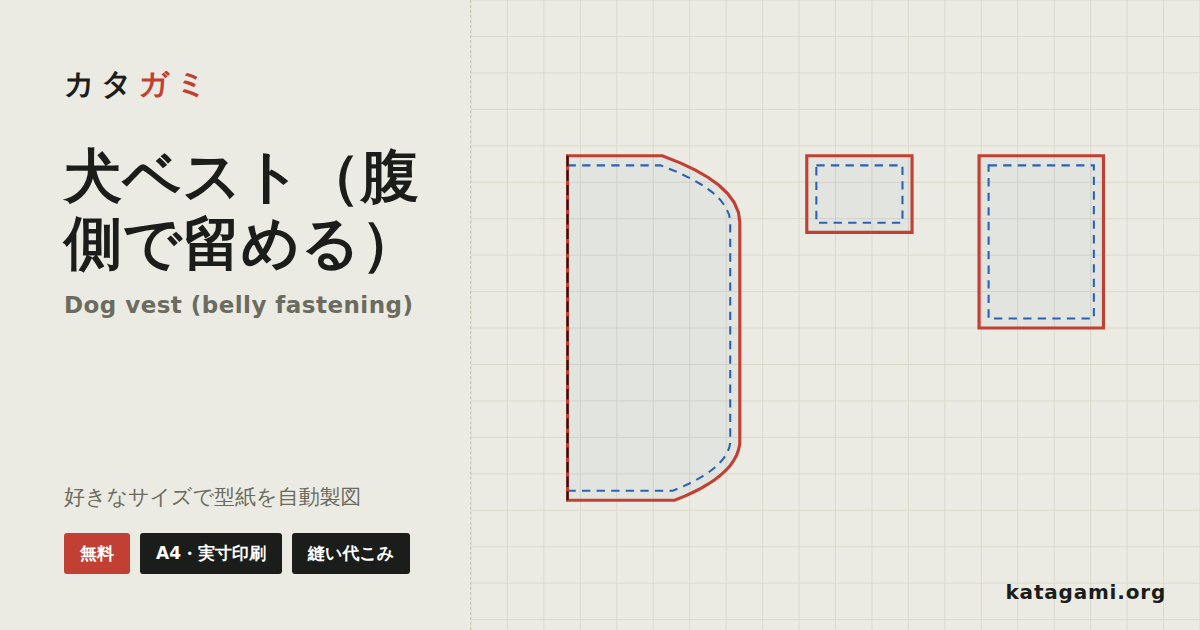
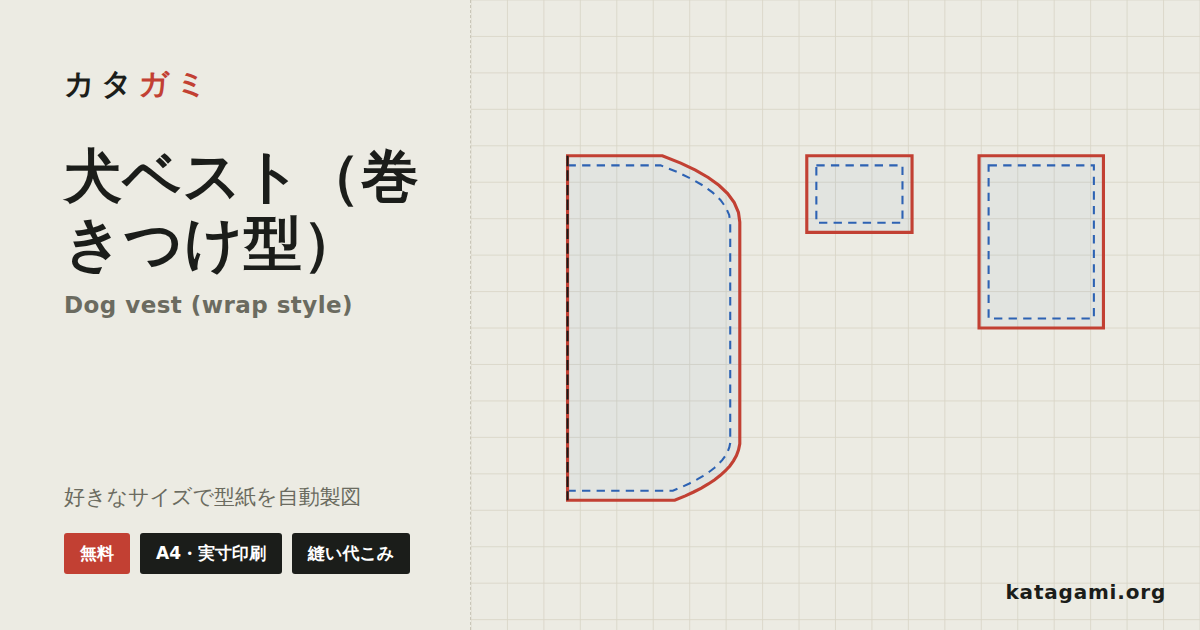
犬ベストの名前を「腹側で留める」→「巻きつけ型」に (#82)
ご指摘のとおり、タイトルとして変でした。3つずれています。

1. 兄弟の型紙は形で命名している（タンクトップ／袖付き）のに、
   ここだけ留め方が入っていた
2. 胸当ても腹当ても留めるようになったので、「腹側で」が事実と半分ずれる
3. 留め方は面ファスナーとスナップの両方選べるのに、名前が片方に寄って見える

形で言い表す「犬ベスト（巻きつけ型）」にしました。英語は
"Dog vest (wrap style)"。既存の「ペットベスト」（筒型でかぶせる）との
違いも名前で分かります。

型紙名・i18n・一覧・作り方ガイド（和英）・OGP画像まで通しで変更。
本文中の「お腹側で留める」は動作の説明なのでそのままにしています。

audit.js／check-mobile.js／check-print.js／check-a11y.js すべて0件

Claude-Session: https://claude.ai/code/session_01NUnd4Kcs6SKpshVzpFfeP3

Changed region(s): [[0.0308, 0.3317, 0.3392, 0.5127], [0.2775, 0.2413, 0.37, 0.3317]]

diff --git a/howto-dogvest.html b/howto-dogvest.html
@@ -14,12 +14,12 @@
   gtag("js",new Date());
   gtag("config","G-3HFK3VE3Q8");
 </script>
-<title>犬ベスト（腹側で留める）の作り方｜カタガミ</title>
-<meta name="description" content="腹側で留める犬ベストの作り方。頭からかぶせず前足も通さないので、着せるのを嫌がる子でも一瞬。面ファスナーかスナップで留めます。カタガミで型紙を実寸印刷できます。">
-<meta name="keywords" content="犬ベスト,犬服,マジックテープ,面ファスナー,スナップ,着せやすい,作り方,型紙">
+<title>犬ベスト（巻きつけ型）の作り方｜カタガミ</title>
+<meta name="description" content="巻きつけ型の犬ベストの作り方。胸当てと腹当てをお腹側で留めるだけなので、頭からかぶせず前足も持ち上げずに着せられます。カタガミで型紙を実寸印刷できます。">
+<meta name="keywords" content="犬ベスト,犬服,巻きつけ,マジックテープ,面ファスナー,スナップ,着せやすい,作り方,型紙">
 <meta property="og:type" content="article">
-<meta property="og:title" content="犬ベスト（腹側で留める）の作り方｜カタガミ">
-<meta property="og:description" content="腹側で留める犬ベストの作り方。頭からかぶせず前足も通さないので、着せるのを嫌がる子でも一瞬。面ファスナーかスナップで留めます。カタガミで型紙を実寸印刷できます。">
+<meta property="og:title" content="犬ベスト（巻きつけ型）の作り方｜カタガミ">
+<meta property="og:description" content="巻きつけ型の犬ベストの作り方。胸当てと腹当てをお腹側で留めるだけなので、頭からかぶせず前足も持ち上げずに着せられます。カタガミで型紙を実寸印刷できます。">
 <meta property="og:locale" content="ja_JP">
 <link rel="stylesheet" href="howto.css">
 <link rel="canonical" href="https://katagami.org/howto-dogvest.html">
@@ -31,15 +31,15 @@
 <meta property="og:image:width" content="1200">
 <meta property="og:image:height" content="630">
 <meta name="twitter:card" content="summary_large_image">
-<meta name="twitter:title" content="犬ベスト（腹側で留める）の作り方｜カタガミ">
-<meta name="twitter:description" content="腹側で留める犬ベストの作り方。頭からかぶせず前足も通さないので、着せるのを嫌がる子でも一瞬。面ファスナーかスナップで留めます。カタガミで型紙を実寸印刷できます。">
+<meta name="twitter:title" content="犬ベスト（巻きつけ型）の作り方｜カタガミ">
+<meta name="twitter:description" content="巻きつけ型の犬ベストの作り方。胸当てと腹当てをお腹側で留めるだけなので、頭からかぶせず前足も持ち上げずに着せられます。カタガミで型紙を実寸印刷できます。">
 <meta name="twitter:image" content="https://katagami.org/ogp/dogvest.png">
 <script type="application/ld+json">
 {
   "@context": "https://schema.org",
   "@type": "Article",
-  "headline": "犬ベスト（腹側で留める）の作り方",
-  "description": "腹側で留める犬ベストの作り方。頭からかぶせず前足も通さないので、着せるのを嫌がる子でも一瞬。面ファスナーかスナップで留めます。カタガミで型紙を実寸印刷できます。",
+  "headline": "犬ベスト（巻きつけ型）の作り方",
+  "description": "巻きつけ型の犬ベストの作り方。胸当てと腹当てをお腹側で留めるだけなので、頭からかぶせず前足も持ち上げずに着せられます。カタガミで型紙を実寸印刷できます。",
   "inLanguage": "ja",
   "image": "https://katagami.org/ogp/dogvest.png",
   "author": {
@@ -64,8 +64,8 @@
 {
   "@context": "https://schema.org",
   "@type": "HowTo",
-  "name": "犬ベスト（腹側で留める）の作り方",
-  "description": "腹側で留める犬ベストの作り方。頭からかぶせず前足も通さないので、着せるのを嫌がる子でも一瞬。面ファスナーかスナップで留めます。カタガミで型紙を実寸印刷できます。",
+  "name": "犬ベスト（巻きつけ型）の作り方",
+  "description": "巻きつけ型の犬ベストの作り方。胸当てと腹当てをお腹側で留めるだけなので、頭からかぶせず前足も持ち上げずに着せられます。カタガミで型紙を実寸印刷できます。",
   "inLanguage": "ja",
   "image": "https://katagami.org/ogp/dogvest.png",
   "supply": [
@@ -304,7 +304,7 @@
     {
       "@type": "ListItem",
       "position": 3,
-      "name": "犬ベスト（腹側で留める）の作り方",
+      "name": "犬ベスト（巻きつけ型）の作り方",
       "item": "https://katagami.org/howto-dogvest.html"
     }
   ]
@@ -320,8 +320,8 @@
 
 <article class="article">
   <div class="article-head">
-    <nav class="crumb" aria-label="パンくずリスト"><a href="index.html">カタガミ</a><span class="sep" aria-hidden="true">›</span><a href="howto.html">作り方ガイド</a><span class="sep" aria-hidden="true">›</span><span class="cur">犬ベスト（腹側で留める）の作り方</span></nav>
-    <h1>犬ベスト（腹側で留める）の作り方</h1>
+    <nav class="crumb" aria-label="パンくずリスト"><a href="index.html">カタガミ</a><span class="sep" aria-hidden="true">›</span><a href="howto.html">作り方ガイド</a><span class="sep" aria-hidden="true">›</span><span class="cur">犬ベスト（巻きつけ型）の作り方</span></nav>
+    <h1>犬ベスト（巻きつけ型）の作り方</h1>
     <p class="lead">
       胸当て・前足ぐり・腹当ての順に並んだベスト。<strong>前足の前を胸当てが、後ろを腹当てがふさぐので、そのあいだが前足ぐりになります。</strong>どちらもお腹側で留めるだけなので、頭からかぶせたり前足を持ち上げたりせずに着せられます。留めは面ファスナーかスナップ、どちらでも作れます。
     </p>
@@ -375,7 +375,7 @@
     <ol class="steps">
       <li>
         <strong>ツールを開く</strong><br>
-        <a href="tool.html">型紙ツール</a>を開き、上部タブの「<b>ペット</b>」→「<b>犬ベスト（腹側で留める）</b>」を選択します。
+        <a href="tool.html">型紙ツール</a>を開き、上部タブの「<b>ペット</b>」→「<b>犬ベスト（巻きつけ型）</b>」を選択します。
       </li>
       <li>
         <strong>サイズを入力する</strong><br>

diff --git a/en/howto-dogvest.html b/en/howto-dogvest.html
@@ -14,12 +14,12 @@
   gtag("js",new Date());
   gtag("config","G-3HFK3VE3Q8");
 </script>
-<title>Dog vest (belly fastening) — Free Sewing Pattern | Katagami</title>
-<meta name="description" content="Free printable sewing pattern for a dog vest (belly fastening), in your size. How to sew a dog vest that fastens under the belly.">
-<meta name="keywords" content="dog vest,dog coat,hook and loop,velcro,snaps,easy on,how to sew,sewing pattern,free sewing pattern,PDF sewing pattern,printable pattern,print at home">
+<title>Dog vest (wrap style) — Free Sewing Pattern | Katagami</title>
+<meta name="description" content="Free printable sewing pattern for a dog vest (wrap style), in your size. How to sew a wrap-style dog vest.">
+<meta name="keywords" content="dog vest,wrap vest,dog coat,hook and loop,velcro,snaps,easy on,how to sew,sewing pattern,free sewing pattern,PDF sewing pattern,printable pattern,print at home">
 <meta property="og:type" content="article">
-<meta property="og:title" content="Dog vest (belly fastening) — Free Sewing Pattern & How to Sew | Katagami">
-<meta property="og:description" content="Free printable sewing pattern for a dog vest (belly fastening), in your size. How to sew a dog vest that fastens under the belly.">
+<meta property="og:title" content="Dog vest (wrap style) — Free Sewing Pattern & How to Sew | Katagami">
+<meta property="og:description" content="Free printable sewing pattern for a dog vest (wrap style), in your size. How to sew a wrap-style dog vest.">
 <meta property="og:locale" content="en_US">
 <meta property="og:locale:alternate" content="ja_JP">
 <link rel="stylesheet" href="../howto.css">
@@ -32,15 +32,15 @@
 <meta property="og:image:width" content="1200">
 <meta property="og:image:height" content="630">
 <meta name="twitter:card" content="summary_large_image">
-<meta name="twitter:title" content="Dog vest (belly fastening) — Free Sewing Pattern & How to Sew | Katagami">
-<meta name="twitter:description" content="Free printable sewing pattern for a dog vest (belly fastening), in your size. How to sew a dog vest that fastens under the belly.">
+<meta name="twitter:title" content="Dog vest (wrap style) — Free Sewing Pattern & How to Sew | Katagami">
+<meta name="twitter:description" content="Free printable sewing pattern for a dog vest (wrap style), in your size. How to sew a wrap-style dog vest.">
 <meta name="twitter:image" content="https://katagami.org/ogp/dogvest.png">
 <script type="application/ld+json">
 {
   "@context": "https://schema.org",
   "@type": "Article",
-  "headline": "How to make a dog vest (belly fastening)",
-  "description": "How to sew a dog vest that fastens under the belly. Nothing goes over the head and no legs are threaded, so it goes on in seconds.",
+  "headline": "How to make a dog vest (wrap style)",
+  "description": "How to sew a wrap-style dog vest. The chest and belly panels simply fasten underneath, so nothing goes over the head and no leg has to be lifted through.",
   "inLanguage": "en",
   "image": "https://katagami.org/ogp/dogvest.png",
   "author": { "@type": "Organization", "name": "Katagami", "url": "https://katagami.org/" },
@@ -54,8 +54,8 @@
 {
   "@context": "https://schema.org",
   "@type": "HowTo",
-  "name": "How to make a dog vest (belly fastening)",
-  "description": "How to sew a dog vest that fastens under the belly. Nothing goes over the head and no legs are threaded, so it goes on in seconds.",
+  "name": "How to make a dog vest (wrap style)",
+  "description": "How to sew a wrap-style dog vest. The chest and belly panels simply fasten underneath, so nothing goes over the head and no leg has to be lifted through.",
   "inLanguage": "en",
   "image": "https://katagami.org/ogp/dogvest.png",
   "supply": [
@@ -294,7 +294,7 @@
     {
       "@type": "ListItem",
       "position": 3,
-      "name": "How to make a dog vest (belly fastening)",
+      "name": "How to make a dog vest (wrap style)",
       "item": "https://katagami.org/en/howto-dogvest.html"
     }
   ]
@@ -310,8 +310,8 @@
 
 <article class="article">
   <div class="article-head">
-    <nav class="crumb" aria-label="Breadcrumb"><a href="index.html">Katagami</a><span class="sep" aria-hidden="true">›</span><a href="howto.html">Sewing guides</a><span class="sep" aria-hidden="true">›</span><span class="cur">Dog vest (belly fastening)</span></nav>
-    <h1>How to make a dog vest (belly fastening)</h1>
+    <nav class="crumb" aria-label="Breadcrumb"><a href="index.html">Katagami</a><span class="sep" aria-hidden="true">›</span><a href="howto.html">Sewing guides</a><span class="sep" aria-hidden="true">›</span><span class="cur">Dog vest (wrap style)</span></nav>
+    <h1>How to make a dog vest (wrap style)</h1>
     <p class="lead">
       A vest built as chest panel, armhole, belly panel. <strong>The chest panel closes in front of the front leg and the belly panel behind it, and the space between them is the armhole.</strong> Both simply fasten under the body, so nothing goes over the head and no leg has to be lifted through. Hook-and-loop or snaps.
     </p>
@@ -353,7 +353,7 @@
       With the Katagami <a href="tool.html">pattern tool</a>, you just enter the finished size and it drafts a seam-allowance-included pattern, tiled to print at actual size on Letter or A4.
     </p>
     <ol class="steps">
-      <li><strong>Open the tool</strong><br>Open the <a href="tool.html">pattern tool</a> and choose “<b>Pets</b>” → “<b>Dog vest (belly fastening)</b>” from the tabs at the top.</li>
+      <li><strong>Open the tool</strong><br>Open the <a href="tool.html">pattern tool</a> and choose “<b>Pets</b>” → “<b>Dog vest (wrap style)</b>” from the tabs at the top.</li>
       <li><strong>Enter the size</strong><br>Enter the chest, neck, back length, chest panel length, armhole size, belly panel length, overlap and ease. Presets cover toy, small, medium and large dogs. Tick the snap option if you are using snaps — the overlap reduces to suit.</li>
       <li><strong>Set the seam allowance</strong><br>Use the slider at the bottom (beginners: <b>1.0–1.5&nbsp;cm / about 3/8–5/8&nbsp;in</b>).</li>
       <li><strong>Print</strong><br>Press “<b>Print (actual size)</b>”, then in the print dialog set <b>Scale = 100%</b> and turn <b>“Fit to page” OFF</b>. Check the 50&nbsp;mm calibration box on the first guide sheet with a ruler.</li>

diff --git a/scripts/ja-howto-data.js b/scripts/ja-howto-data.js
@@ -8637,10 +8637,10 @@ neckpillow:{
     related:["picnicmat", "chairpad", "slipper"],
   },
   dogvest: {
-    title:"犬ベスト（腹側で留める）", tab:"pet", toolName:"犬ベスト（腹側で留める）",
+    title:"犬ベスト（巻きつけ型）", tab:"pet", toolName:"犬ベスト（巻きつけ型）",
     sizeStep:"「胴回り」「首回り」「背丈」「胸当ての長さ」「前足ぐりの大きさ」「腹当ての長さ」「重なり」「ゆとり」を入力します。超小型犬・小型犬・中型犬・大型犬のプリセットがあります。スナップで留める場合はチェックを入れてください（重なりが少なめになります）。",
-    desc:"腹側で留める犬ベストの作り方。頭からかぶせず前足も通さないので、着せるのを嫌がる子でも一瞬。面ファスナーかスナップで留めます。カタガミで型紙を実寸印刷できます。",
-    keywords:"犬ベスト,犬服,マジックテープ,面ファスナー,スナップ,着せやすい,作り方,型紙",
+    desc:"巻きつけ型の犬ベストの作り方。胸当てと腹当てをお腹側で留めるだけなので、頭からかぶせず前足も持ち上げずに着せられます。カタガミで型紙を実寸印刷できます。",
+    keywords:"犬ベスト,犬服,巻きつけ,マジックテープ,面ファスナー,スナップ,着せやすい,作り方,型紙",
     lead:"胸当て・前足ぐり・腹当ての順に並んだベスト。<strong>前足の前を胸当てが、後ろを腹当てがふさぐので、そのあいだが前足ぐりになります。</strong>どちらもお腹側で留めるだけなので、頭からかぶせたり前足を持ち上げたりせずに着せられます。留めは面ファスナーかスナップ、どちらでも作れます。",
     matNote:"中型犬（柴犬サイズ）1着分の目安",
     buy:"面ファスナー 手芸", buyLabel:"面ファスナー・綿",

diff --git a/i18n.js b/i18n.js
@@ -45,7 +45,7 @@
     small:"Accessories", bag:"Bags", pet:"Pets", home:"Home" };
 
   var NAME={
-    /* 2026-08 犬ベスト */ "dogvest":"Dog vest (belly fastening)",
+    /* 2026-08 犬ベスト */ "dogvest":"Dog vest (wrap style)",
     /* 2026-08 小物・バッグ・ペット・ホームの追加 */ "maskcover":"Mask cover", "casquette":"Casquette", "bandanacap":"Bandana cap", "hairribbon":"Hair ribbon", "hairclip":"Ribbon barrette", "haramaki":"Belly warmer", "brooch":"Fabric brooch", "pocketsquare":"Pocket square", "fabricbelt":"Fabric belt", "breadbag":"Bread bag", "potmat":"Trivet", "teatowel":"Tea towel", "coinpurse":"Coin purse", "bifoldwallet":"Bifold wallet", "gamaguchiwallet":"Gamaguchi wallet", "travelpouch":"Hanging travel pouch", "keyboardcover":"Keyboard cover", "phoneshoulder":"Phone shoulder bag", "tabletstand":"Tablet stand", "petbowtie":"Pet bow tie", "petscarf":"Pet scarf", "petseatcover":"Pet car seat cover", "petblanket":"Pet blanket", "pettent":"Pet tent", "tapestry":"Wall hanging", "shelfcurtain":"Shelf curtain", "doormat":"Doormat",
     /* 2026-08 子供服・大人服の追加 */ "kidsleggings":"Kids' leggings", "kidstunic":"Kids' tunic", "kidsponcho":"Kids' poncho", "kidsjacket":"Kids' jacket", "kidsraincoat":"Kids' raincoat", "kidsyukata":"Kids' yukata", "kidsapron":"Kids' apron", "jumpsuit":"Jumpsuit", "adultjinbei":"Jinbei top (adult)", "cafeapron":"Cafe apron",
     /* 2026-08 ベビーの追加 */ "fabricball":"Fabric ball", "clothbook":"Cloth book", "taghanky":"Taggie square", "otedama":"Otedama beanbag", "babypillow":"Doughnut baby pillow", "napmat":"Nap mat", "babyfuton":"Baby duvet cover", "diapercover":"Diaper cover", "nursingpillow":"Nursing pillow cover", "gauzehanky":"Gauze square", "babyleggings":"Baby leggings", "suckpad":"Carrier suck pads",

diff --git a/scripts/en-howto-data.js b/scripts/en-howto-data.js
@@ -11285,10 +11285,10 @@ module.exports = {
     related:["picnicmat", "chairpad", "slipper"],
   },
   dogvest: {
-    title:"Dog vest (belly fastening)", tab:"pet", toolName:"Dog vest (belly fastening)",
+    title:"Dog vest (wrap style)", tab:"pet", toolName:"Dog vest (wrap style)",
     sizeStep:"Enter the chest, neck, back length, chest panel length, armhole size, belly panel length, overlap and ease. Presets cover toy, small, medium and large dogs. Tick the snap option if you are using snaps — the overlap reduces to suit.",
-    desc:"How to sew a dog vest that fastens under the belly. Nothing goes over the head and no legs are threaded, so it goes on in seconds.",
-    keywords:"dog vest,dog coat,hook and loop,velcro,snaps,easy on,how to sew,sewing pattern",
+    desc:"How to sew a wrap-style dog vest. The chest and belly panels simply fasten underneath, so nothing goes over the head and no leg has to be lifted through.",
+    keywords:"dog vest,wrap vest,dog coat,hook and loop,velcro,snaps,easy on,how to sew,sewing pattern",
     lead:"A vest built as chest panel, armhole, belly panel. <strong>The chest panel closes in front of the front leg and the belly panel behind it, and the space between them is the armhole.</strong> Both simply fasten under the body, so nothing goes over the head and no leg has to be lifted through. Hook-and-loop or snaps.",
     matNote:"one vest, medium dog",
     materials:[

diff --git a/index.html b/index.html
@@ -447,7 +447,7 @@
           <li><a href="tool.html?p=dogsleeved">犬服（袖付き）</a></li>
           <li><a href="tool.html?p=catfuku">猫服（タンクトップ）</a></li>
           <li><a href="tool.html?p=petvest">ペットベスト</a></li>
-          <li><a href="tool.html?p=dogvest">犬ベスト（腹側で留める）</a></li>
+          <li><a href="tool.html?p=dogvest">犬ベスト（巻きつけ型）</a></li>
           <li><a href="tool.html?p=petcape">ペットレインコート</a></li>
           <li class="pat-sub" role="presentation">首まわり</li>
           <li><a href="tool.html?p=petbandana">ペットバンダナ</a></li>
@@ -779,7 +779,7 @@
           <li><a href="howto-petsnood.html">ペットスヌード</a></li>
           <li><a href="howto-catfuku.html">猫服（タンクトップ）</a></li>
           <li><a href="howto-petvest.html">ペットベスト</a></li>
-          <li><a href="howto-dogvest.html">犬ベスト（腹側で留める）</a></li>
+          <li><a href="howto-dogvest.html">犬ベスト（巻きつけ型）</a></li>
           <li><a href="howto-petbed.html">ペットベッド</a></li>
           <li><a href="howto-petcape.html">ペットレインコート</a></li>
           <li><a href="howto-petcollar.html">首輪カバー</a></li>

diff --git a/patterns.js b/patterns.js
@@ -10134,11 +10134,11 @@ PATTERNS.fabricbelt={
   }
 };
 
-/* ---- 犬ベスト（腹側で留める） ---- */
+/* ---- 犬ベスト（巻きつけ型） ---- */
 PATTERNS.dogvest={
   mode:"pet",
-  name:"犬ベスト（腹側で留める）",
-  note:"胸当て・前足ぐり・腹当ての順に並んだベスト。前足の前を胸当てが、後ろを腹当てがふさぐので、そのあいだが前足ぐりになります。どちらもお腹側で留めるだけなので、頭からかぶせたり前足を持ち上げたりせずに着せられます。留めは面ファスナーかスナップ。",
+  name:"犬ベスト（巻きつけ型）",
+  note:"胸当て・前足ぐり・腹当ての順に並んだ、体に巻きつけて留めるベスト。前足の前を胸当てが、後ろを腹当てがふさぐので、そのあいだが前足ぐりになります。どちらもお腹側で留めるだけなので、頭からかぶせたり前足を持ち上げたりせずに着せられます。留めは面ファスナーかスナップ。",
   params:[
     {key:"chest",   label:"胴回り（前足のうしろ）",unit:"cm",min:24,max:90, step:1,  val:46},
     {key:"neck",    label:"首回り",              unit:"cm",min:16,max:60, step:1,  val:30},

diff --git a/app.js b/app.js
@@ -568,7 +568,7 @@ const HOWTO={
   petsnood:{url:"howto-petsnood.html", label:"📄 ペットスヌードの作り方を見る"},
   catfuku:{url:"howto-catfuku.html", label:"📄 猫服（タンクトップ）の作り方を見る"},
   petvest:{url:"howto-petvest.html", label:"📄 ペットベストの作り方を見る"},
-  dogvest:{url:"howto-dogvest.html", label:"📄 犬ベスト（腹側で留める）の作り方を見る"},
+  dogvest:{url:"howto-dogvest.html", label:"📄 犬ベスト（巻きつけ型）の作り方を見る"},
   petbed:{url:"howto-petbed.html", label:"📄 ペットベッドの作り方を見る"},
   petcape:{url:"howto-petcape.html", label:"📄 ペットレインコートの作り方を見る"},
   petcollar:{url:"howto-petcollar.html", label:"📄 首輪カバーの作り方を見る"},

diff --git a/en/index.html b/en/index.html
@@ -434,7 +434,7 @@
           <li><a href="tool.html?p=dogsleeved">Dog clothes (sleeved)</a></li>
           <li><a href="tool.html?p=catfuku">Cat clothes (tank top)</a></li>
           <li><a href="tool.html?p=petvest">Pet vest</a></li>
-          <li><a href="tool.html?p=dogvest">Dog vest (belly fastening)</a></li>
+          <li><a href="tool.html?p=dogvest">Dog vest (wrap style)</a></li>
           <li><a href="tool.html?p=petcape">Pet raincoat</a></li>
           <li class="pat-sub" role="presentation">Around the neck</li>
           <li><a href="tool.html?p=petbandana">Pet bandana</a></li>

diff --git a/howto.html b/howto.html
@@ -1114,7 +1114,7 @@
         <p class="card-arrow">作り方を見る →</p>
       </a>
       <a class="howto-card" href="howto-dogvest.html">
-        <p class="card-title">犬ベスト（腹側で留める）</p>
+        <p class="card-title">犬ベスト（巻きつけ型）</p>
         <p class="card-sub">背中にのせて、首と胴の帯をお腹側で留める…</p>
         <p class="card-arrow">作り方を見る →</p>
       </a>

diff --git a/en/howto.html b/en/howto.html
@@ -1185,7 +1185,7 @@
         <p class="card-arrow">Read the guide →</p>
       </a>
       <a class="howto-card" href="howto-dogvest.html">
-        <p class="card-title">Dog vest (belly fastening)</p>
+        <p class="card-title">Dog vest (wrap style)</p>
         <p class="card-sub">A dog vest that fastens under the belly</p>
         <p class="card-arrow">Read the guide →</p>
       </a>
